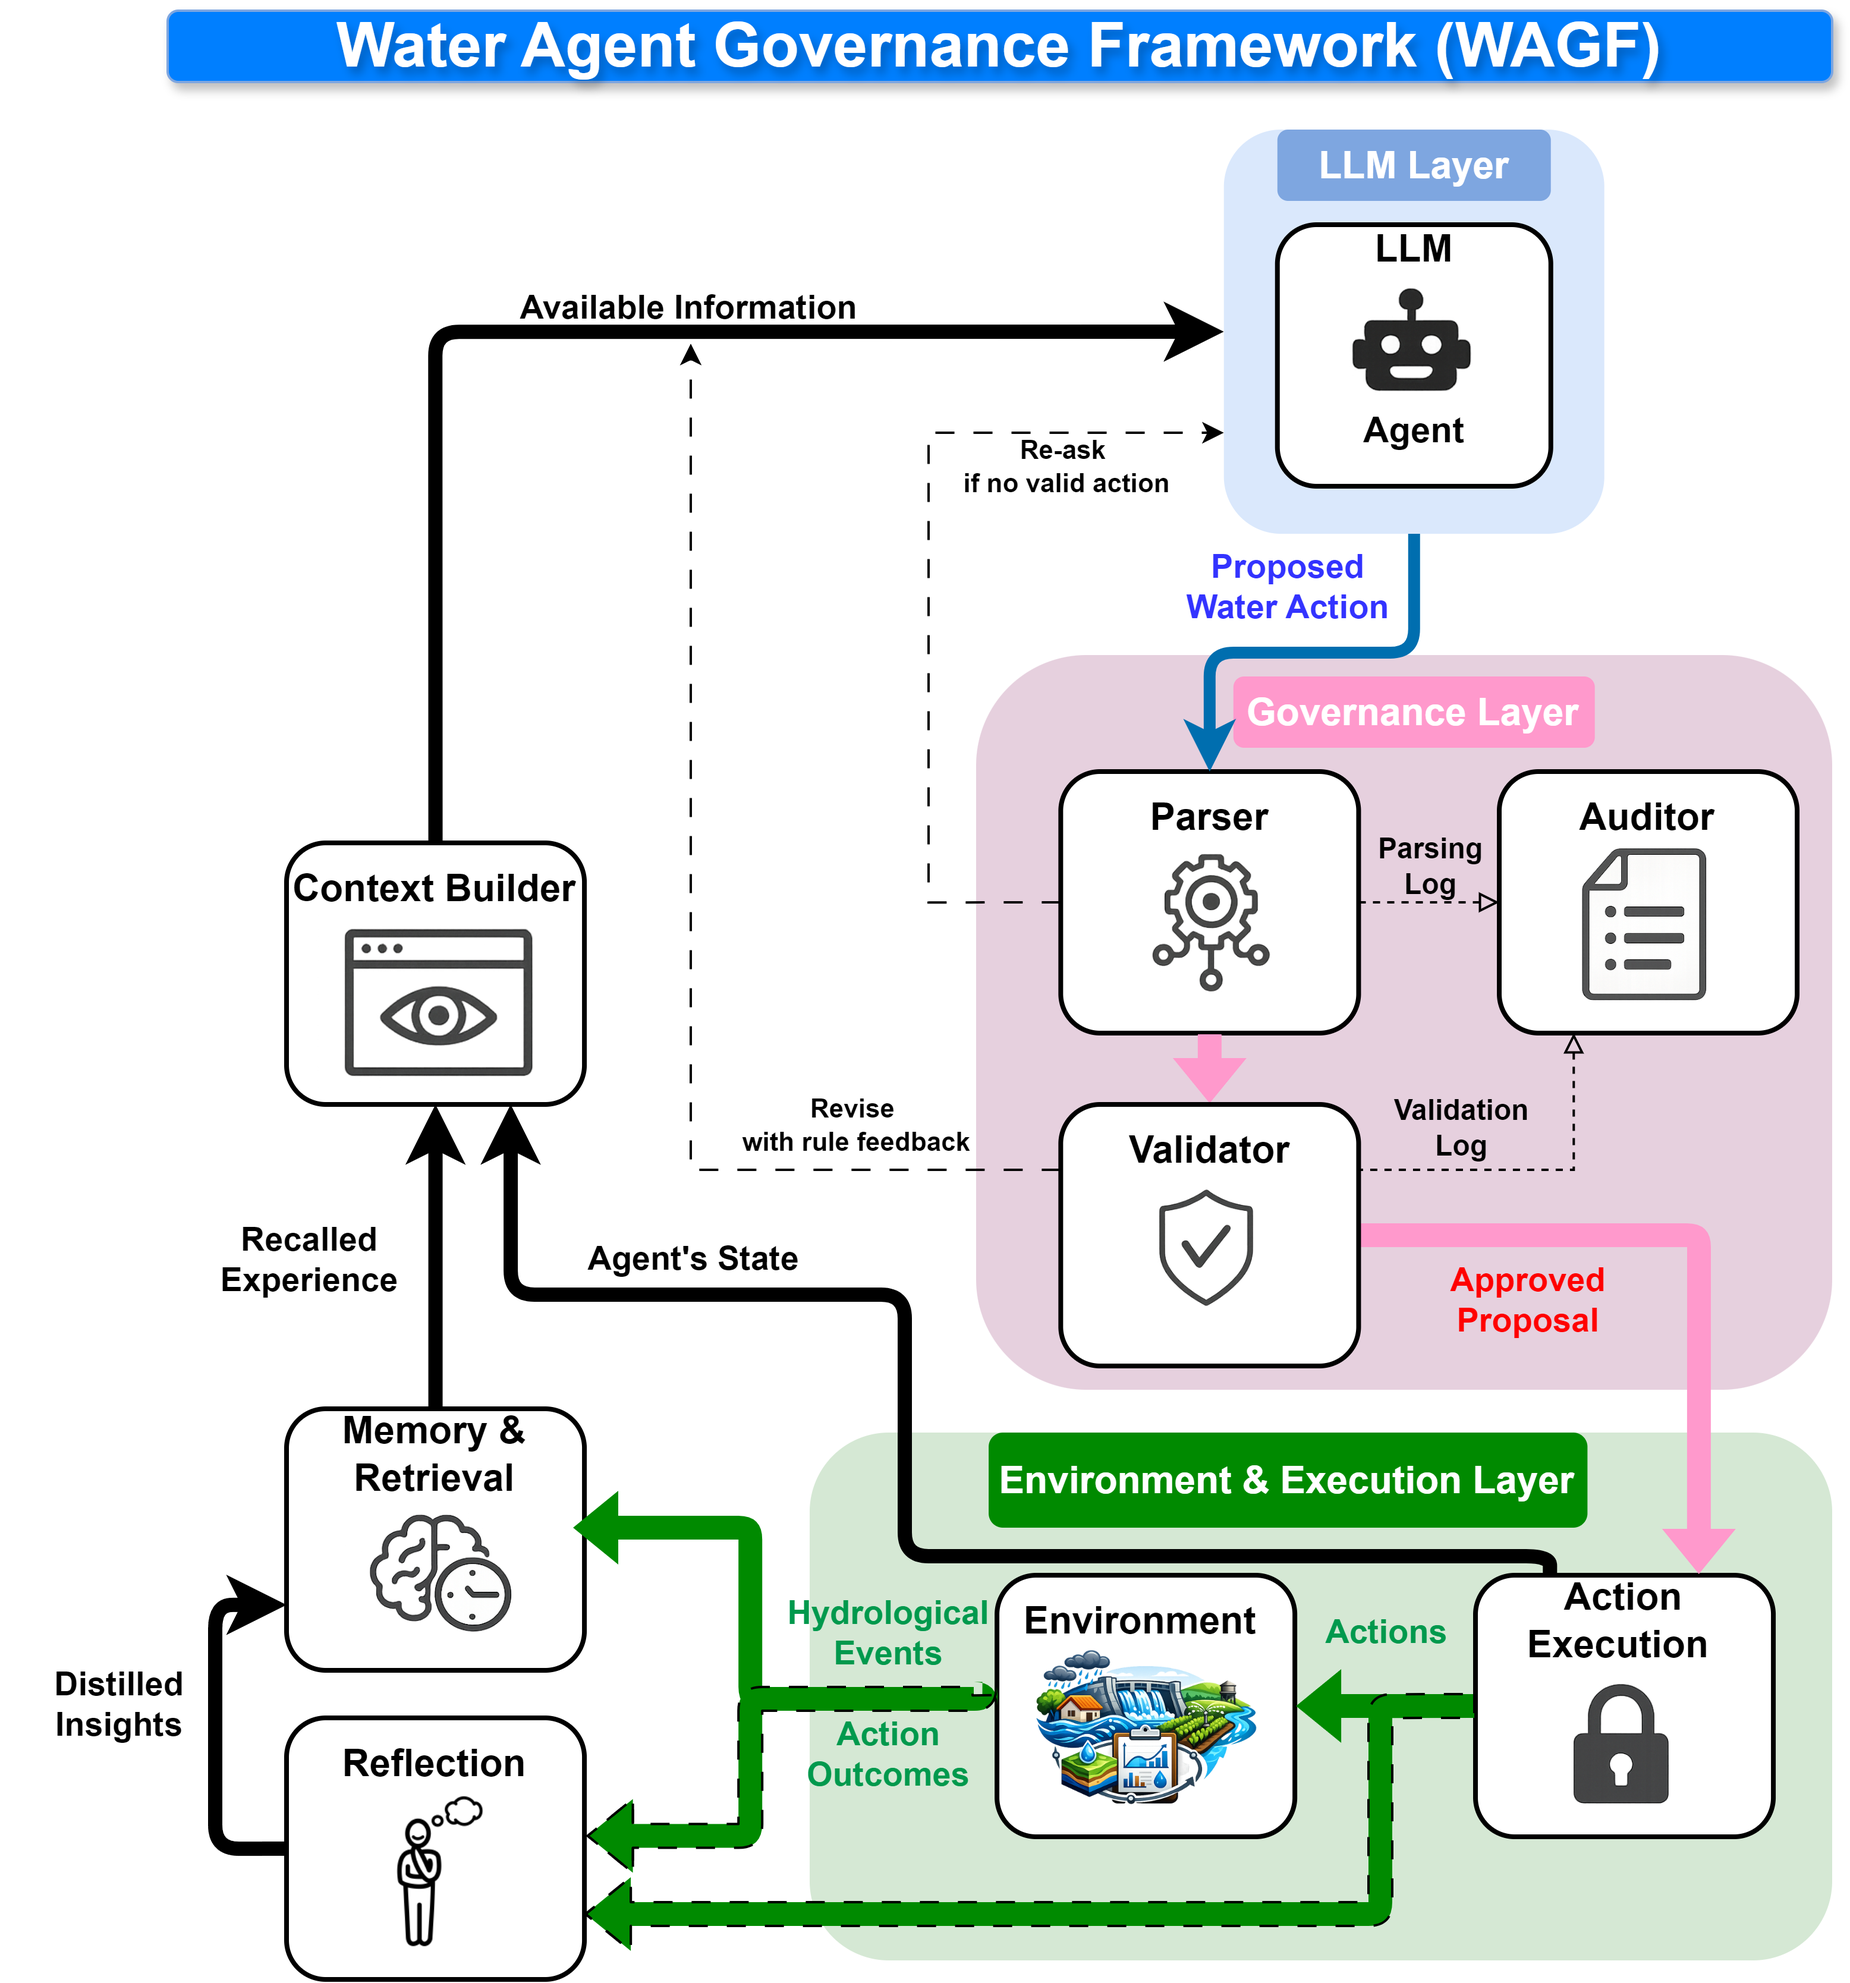
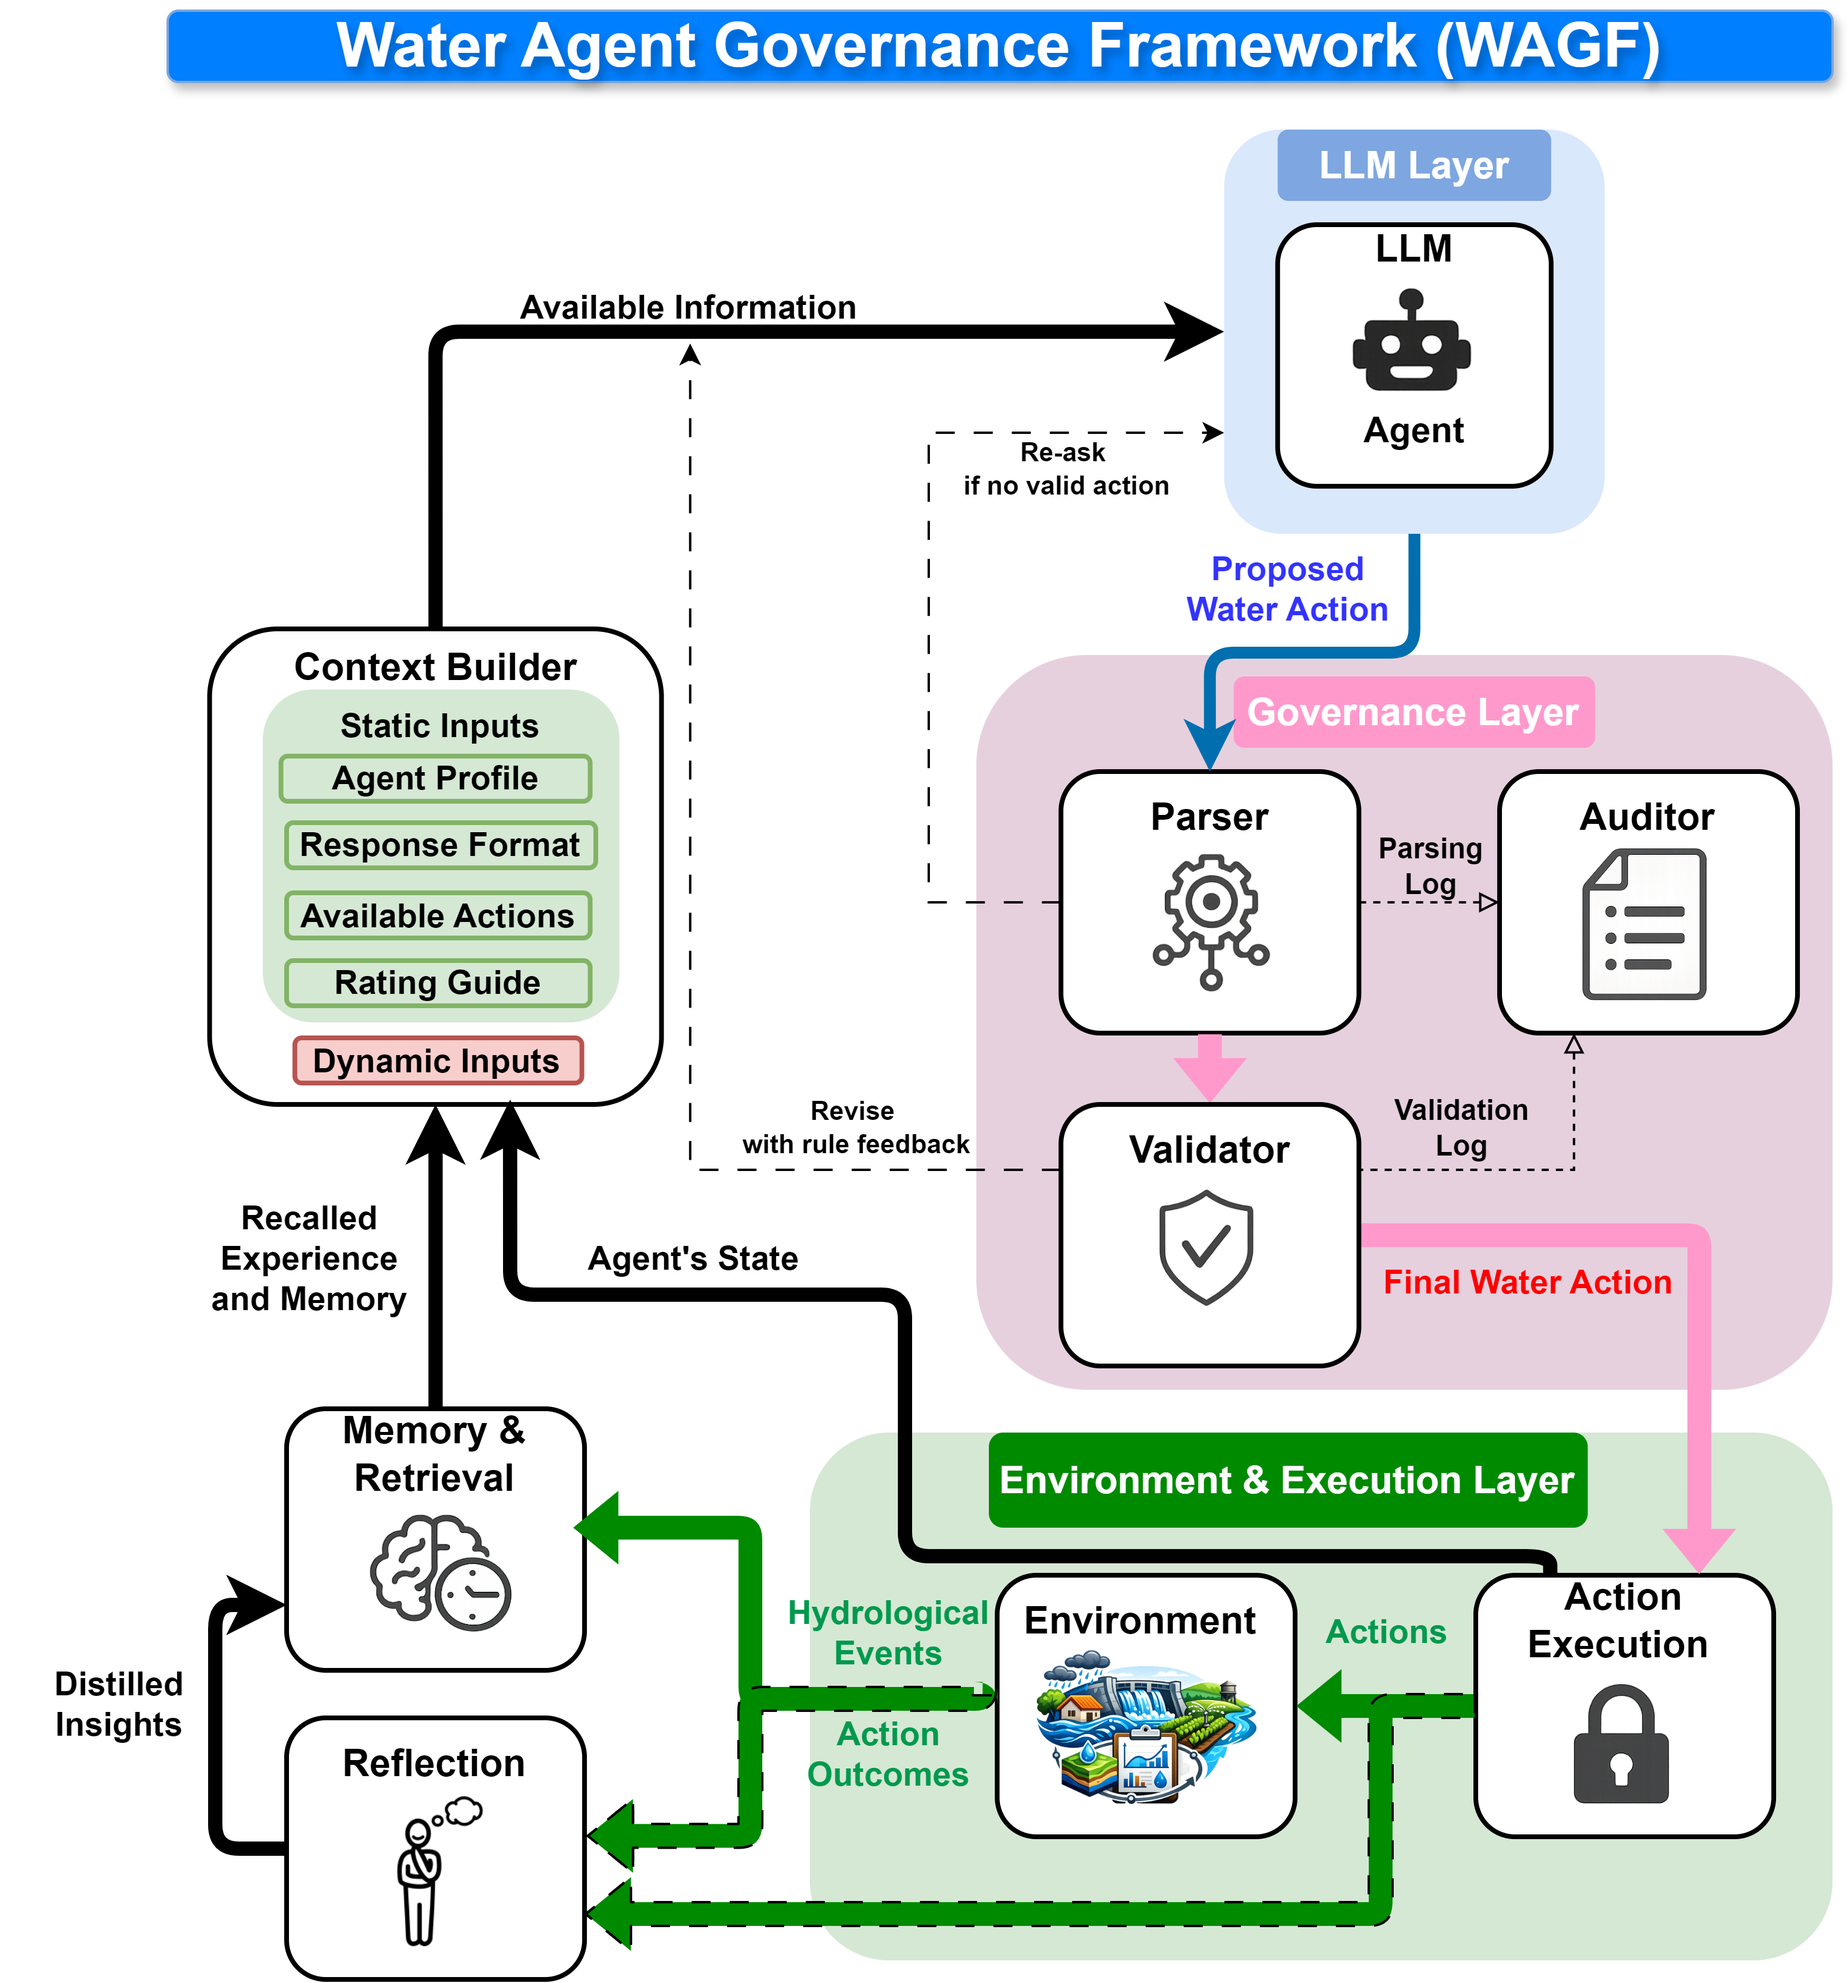
docs: update WAGF architecture figure (README EN/zh + new diagram)
Replace docs/architecture.png with the new WAGF framework diagram (paper Fig 1). Align README.md layer names to the figure (Governance Layer, Environment & Execution Layer). README_zh.md architecture section switched from ASCII art to the PNG plus a 3-layer Chinese description mirroring EN.

Co-Reviewed-By: code-reviewer subagent (trigger 1: 3 files), verdict APPROVE

diff --git a/README_zh.md b/README_zh.md
@@ -152,42 +152,13 @@ WAGF 處於不同的技術層次。最接近的同類是規則式 ABM 平台（M
 
 ## 架構
 
-```text
-┌─────────────────────────────────────────────────┐
-│                治理仲裁器 (Governance Broker)      │
-│                                                  │
-│  1. 上下文組裝（記憶 + 狀態 + 社會）              │
-│  2. LLM 推理（任意提供者）                        │
-│  3. 輸出解析（JSON/enclosure 擷取）               │
-│  4. 驗證（物理 → 思考 → 個人                      │
-│           → 社會 → 語義）                         │
-│  5. 核准或重試（附帶針對性反饋）                   │
-│  6. 執行 + 審計                                   │
-│                                                  │
-│  若步驟 4 回傳 ERROR → 返回步驟 2                 │
-│  若步驟 4 回傳 WARNING → 記錄並繼續               │
-└─────────────────────────────────────────────────┘
+![WAGF 架構](docs/architecture.png)
 
-┌─────────────────────────────────────────────────┐
-│                  執行環境                         │
-│                                                  │
-│  生命週期：pre_year → 代理人決策 →                │
-│            post_step → post_year → 下一年         │
-│                                                  │
-│  領域配置：skill_registry.yaml                    │
-│            agent_types.yaml                       │
-│            lifecycle_hooks.py                     │
-└─────────────────────────────────────────────────┘
+框架分為三層運作：
 
-┌─────────────────────────────────────────────────┐
-│                 支援子系統                         │
-│                                                  │
-│  記憶      加權檢索、整合                          │
-│  上下文    分層提示詞（核心/歷史/近期）             │
-│  社會      鄰里傳聞、新聞媒體、社群媒體            │
-│  反思      定期 LLM 驅動的記憶整合                 │
-└─────────────────────────────────────────────────┘
-```
+1. **LLM 層（LLM Layer）**：代理人以自然語言推理提出行動
+2. **治理層（Governance Layer）**：Parser 擷取結構化輸出；Validator 檢查領域規則；Auditor 記錄軌跡。若驗證失敗（ERROR），提案附帶針對性反饋返回 LLM
+3. **環境與執行層（Environment & Execution Layer）**：核准的行動修改環境，記憶與反思反饋進入下一個決策週期
 
 **關鍵入口檔案：**
 

diff --git a/README.md b/README.md
@@ -164,8 +164,8 @@ In short: WAGF is not a chatbot framework, not a retrieval tool, not an LLM SDK.
 The framework operates in three layers:
 
 1. **LLM Layer** — Agents propose actions via natural-language reasoning
-2. **Governed Layer** — Parser extracts structured output; Validator checks domain rules; Auditor logs traces. If validation fails (ERROR), the proposal returns to the LLM with targeted feedback
-3. **Execution Layer** — Approved actions modify the environment; Memory and Reflection feed back into the next decision cycle
+2. **Governance Layer** — Parser extracts structured output; Validator checks domain rules; Auditor logs traces. If validation fails (ERROR), the proposal returns to the LLM with targeted feedback
+3. **Environment & Execution Layer** — Approved actions modify the environment; Memory and Reflection feed back into the next decision cycle
 
 **Key entry points:**
 
